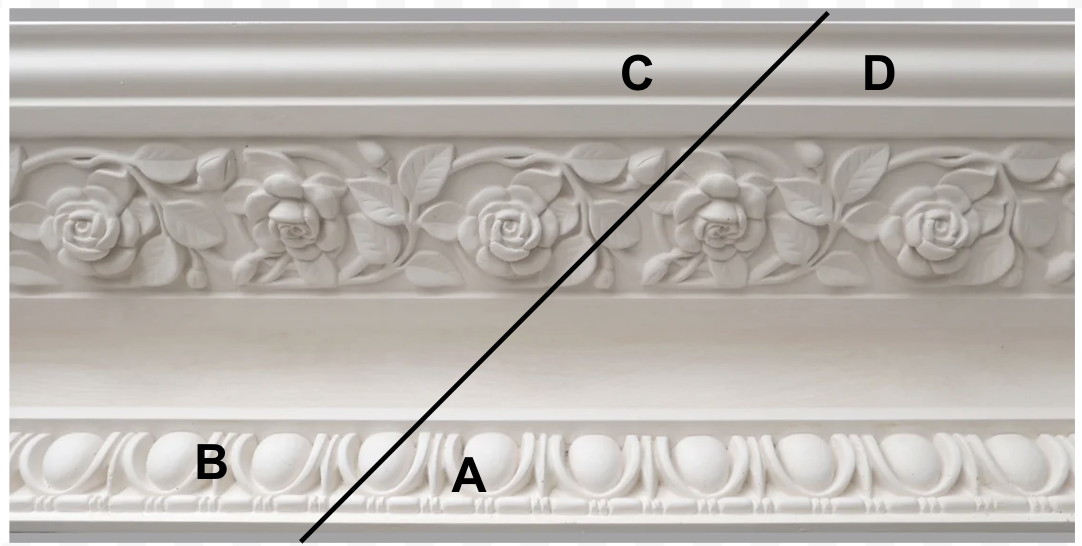
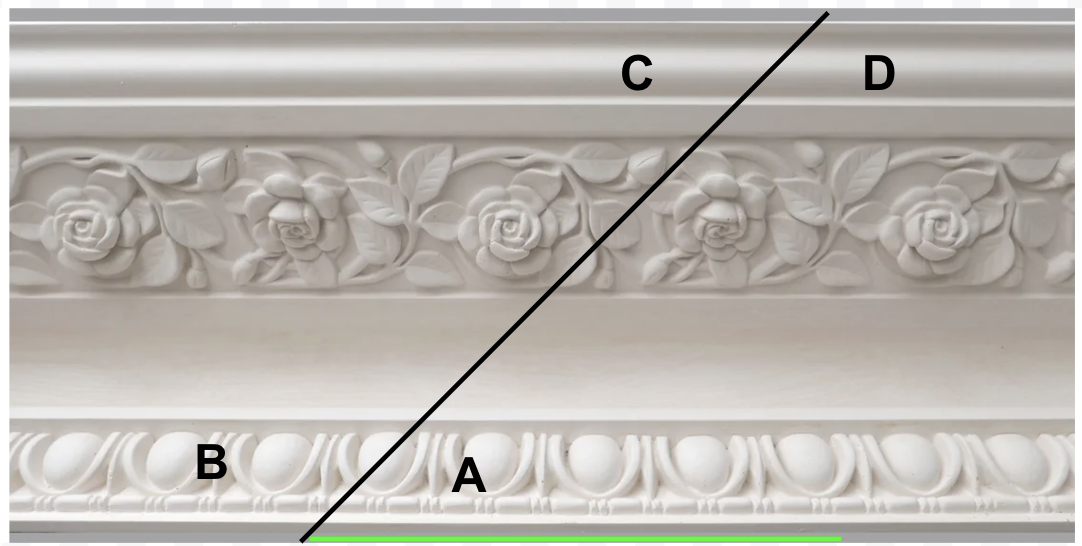
Adding in green line

Changed region(s): [[0.2745, 0.9652, 0.793, 0.9963]]

diff --git a/index.html b/index.html
@@ -36,7 +36,7 @@
           <div><p>Angle B: <span class="angleB"></span></p></div>
           <div><p>Angle C: <span class="angleC"></span></p></div>                    
           <div><p>Angle D: <span class="angleD"></span></p></div>
-          <div><p>Distance along the length (mm): <span class="distanceLength"></span></p></div>
+          <div><p class="distance">Distance along the length (mm) (in green): <span class="distanceLength"></span></p></div>
           <div>Note: Distance = 287 (which is width of cornice) * tan(90-Angle A)</div>
       </div>
 
@@ -69,7 +69,7 @@
           <div><p>Angle B: <span class="angleB"></span></p></div>
           <div><p>Angle C: <span class="angleC"></span></p></div>                    
           <div><p>Angle D: <span class="angleD"></span></p></div>
-          <div><p>Distance along the length (mm): <span class="distanceLength"></span></p></div>
+          <div><p class="distance">Distance along the length (mm) (in green): <span class="distanceLength"></span></p></div>
           <div>Note: Distance = 287 (which is width of cornice) * tan(90-Angle B)</div>
       </div>
 
@@ -87,6 +87,10 @@
       .row div{
         display: block;
         width: 100%;
+      }
+
+      .distance{
+        color: green;
       }
 
 
